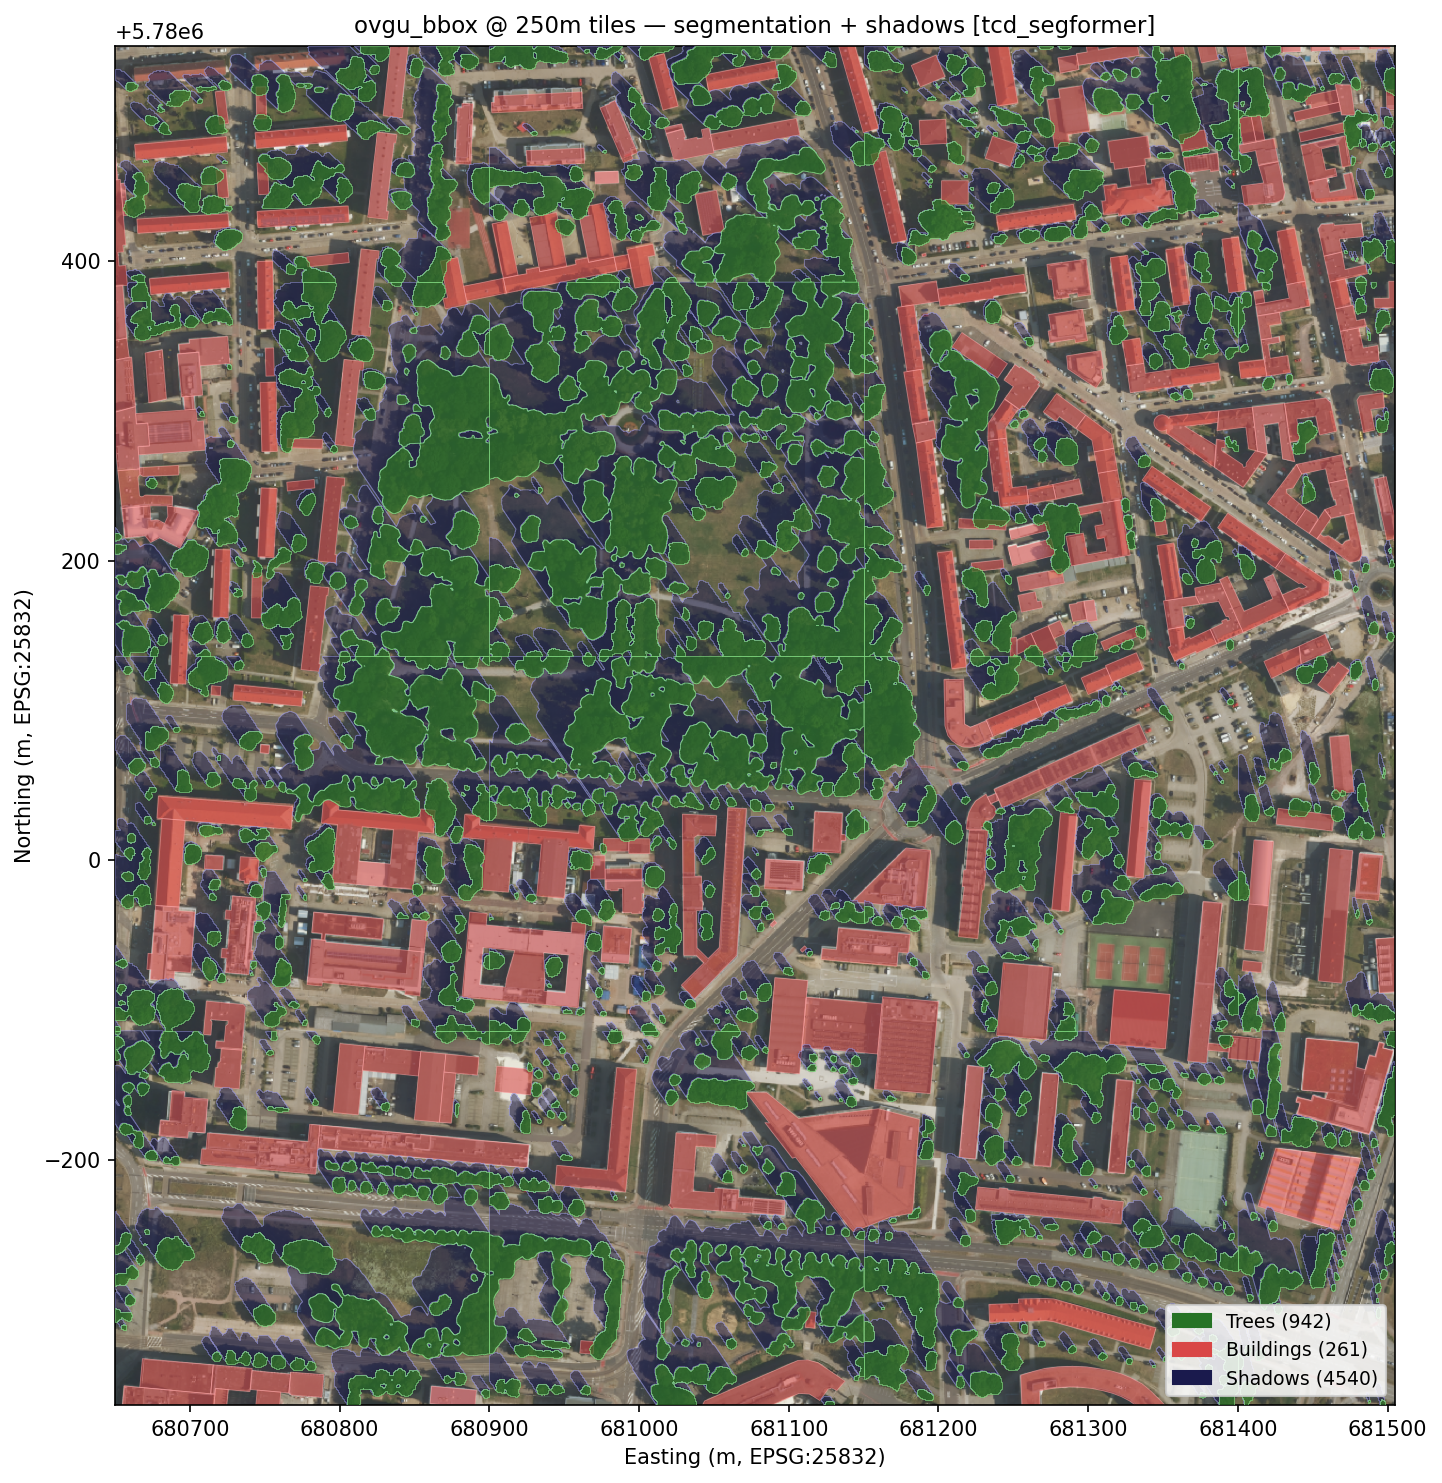
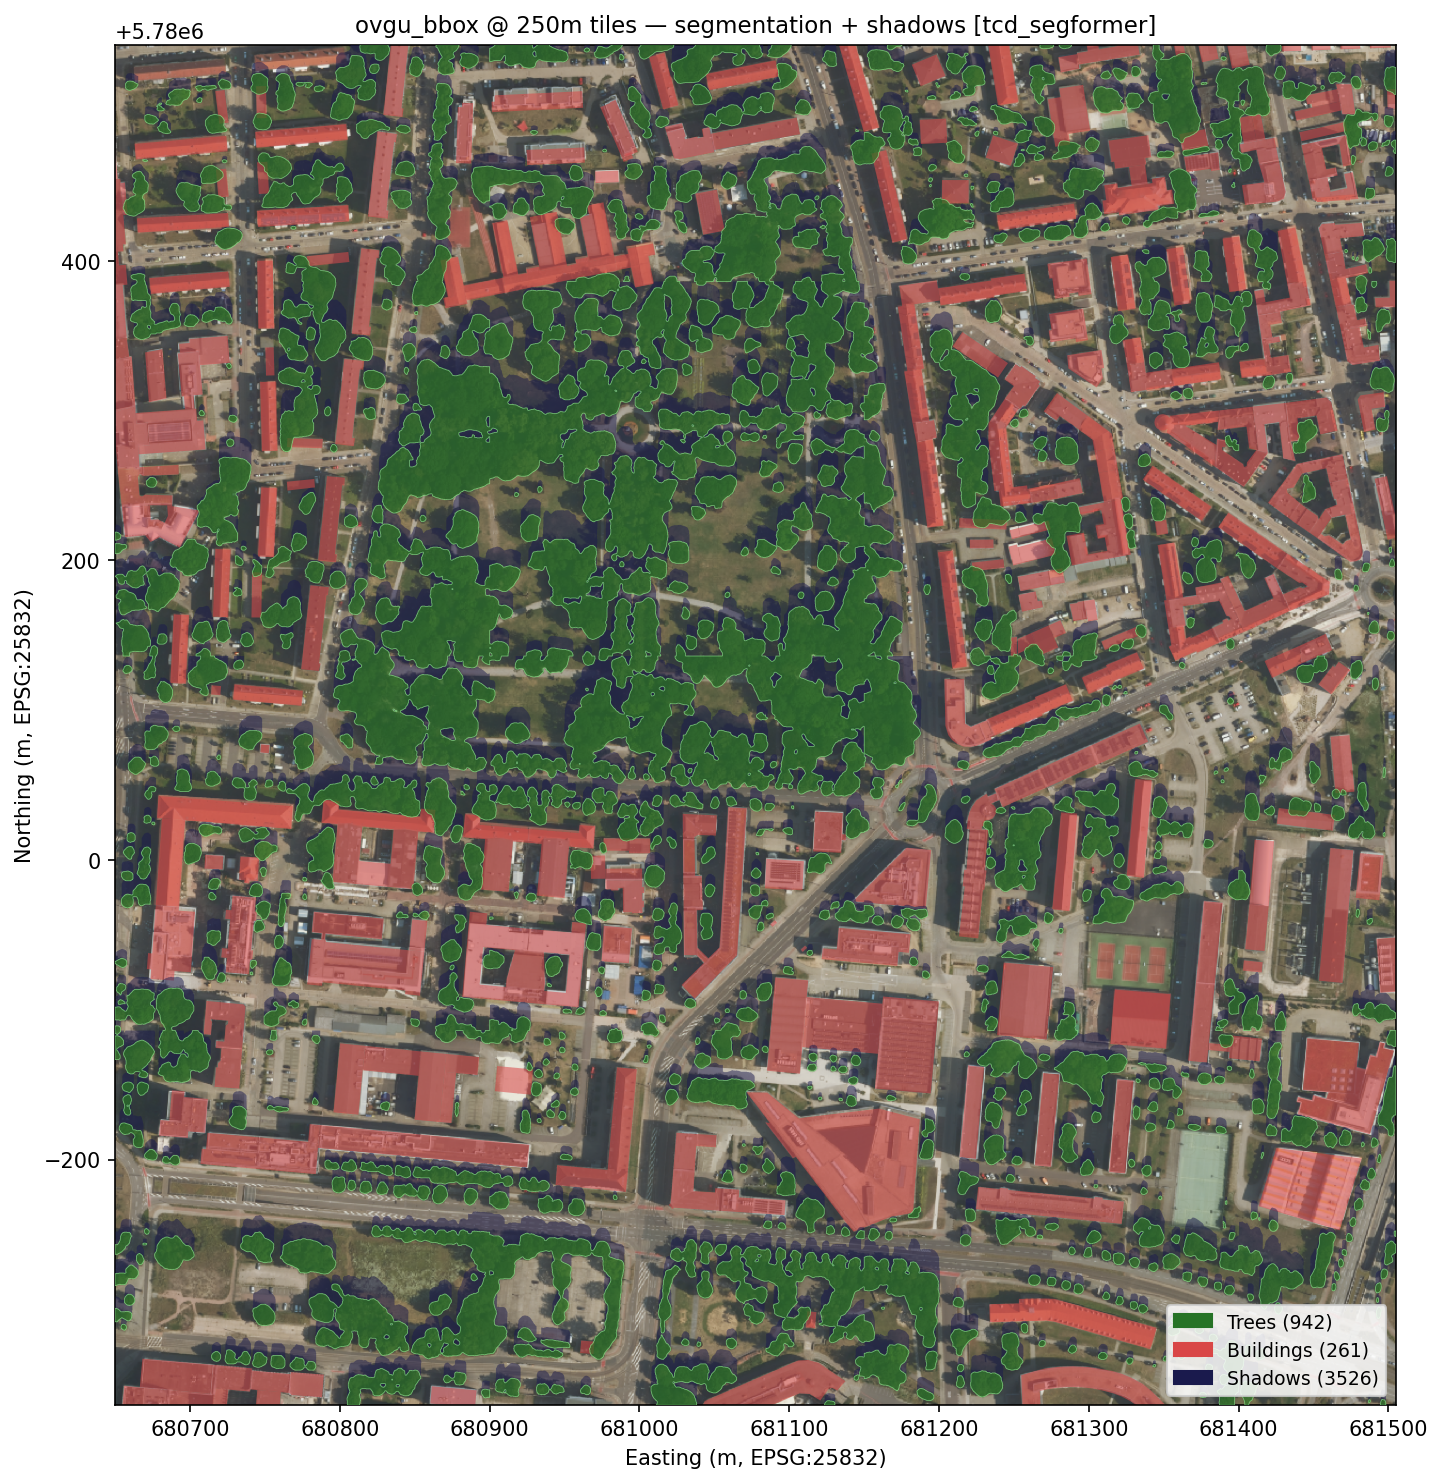
buffer to fix watershed splits

diff --git a/pipeline.py b/pipeline.py
@@ -79,6 +79,25 @@ def _merge_layer(area_name: str, vegetation_model: str, layer: str, out_dir):
     return out_path
 
 
+def _dissolve_for_render(gdf: "gpd.GeoDataFrame", snap_m: float = 0.3) -> "gpd.GeoDataFrame":
+    """Merge touching polygons to remove watershed ridge and tile-boundary seams for rendering.
+
+    buffer(+snap) closes 1-pixel gaps → unary_union merges touching polygons →
+    buffer(-snap) restores the original boundary extent.
+    Returns a geometry-only GeoDataFrame; attributes are not preserved.
+    snap_m=0.3 is just above the 0.2 m/pixel DOP20 resolution.
+    """
+    import geopandas as gpd
+    from shapely.ops import unary_union
+    union = unary_union(gdf.geometry.buffer(snap_m))
+    dissolved = gpd.GeoDataFrame(
+        geometry=gpd.GeoSeries([union], crs=gdf.crs).explode(index_parts=False),
+        crs=gdf.crs,
+    ).reset_index(drop=True)
+    dissolved["geometry"] = dissolved.geometry.buffer(-snap_m)
+    return dissolved
+
+
 def _load_vegetation_model(name: str):
     """Load the requested model and return a callable mask_fn(img) -> bool array."""
     if name == "vari":
@@ -663,13 +682,17 @@ def cmd_render(
             trees_gdf = gpd.read_file(trees_path)
             shadow_gdf = gpd.read_file(shadow_path) if shadow_path.exists() and shadow_path.stat().st_size > 0 else None
 
+            # Dissolve for rendering only — on-disk FGBs with attributes are unchanged
+            trees_render  = _dissolve_for_render(trees_gdf) if len(trees_gdf) > 0 else trees_gdf
+            shadow_render = _dissolve_for_render(shadow_gdf) if shadow_gdf is not None and len(shadow_gdf) > 0 else shadow_gdf
+
             # --- Figure 1: post-segmentation ---
             fig, ax = plt.subplots(figsize=(10, 10))
             ax.imshow(img, extent=extent, origin="upper", aspect="equal")
             if buildings_gdf is not None and len(buildings_gdf) > 0:
-                buildings_gdf.plot(ax=ax, facecolor="#d94747", edgecolor="#ffaaaa", linewidth=0.4, alpha=0.55, zorder=2)
-            if len(trees_gdf) > 0:
-                trees_gdf.plot(ax=ax, facecolor="#267326", edgecolor="#90ee90", linewidth=0.4, alpha=0.65, zorder=4)
+                buildings_gdf.plot(ax=ax, facecolor="#d94747", edgecolor="none", alpha=0.55, zorder=2)
+            if len(trees_render) > 0:
+                trees_render.plot(ax=ax, facecolor="#267326", edgecolor="#90ee90", linewidth=0.4, alpha=0.65, zorder=4)
             ax.set_xlim(west_m, east_m)
             ax.set_ylim(south_m, north_m)
             ax.set_xlabel("Easting (m, EPSG:25832)")
@@ -686,13 +709,13 @@ def cmd_render(
             print(f"  {area_name} @ {size}m [seg]:    → {seg_render_path.name}  ({len(trees_gdf)} trees)")
 
             # --- Figure 2: post-shadow ---
-            if shadow_gdf is not None and len(shadow_gdf) > 0:
+            if shadow_render is not None and len(shadow_render) > 0:
                 fig, ax = plt.subplots(figsize=(10, 10))
                 ax.imshow(img, extent=extent, origin="upper", aspect="equal")
                 if buildings_gdf is not None and len(buildings_gdf) > 0:
-                    buildings_gdf.plot(ax=ax, facecolor="#d94747", edgecolor="#ffaaaa", linewidth=0.4, alpha=0.55, zorder=2)
-                shadow_gdf.plot(ax=ax, facecolor="#1a1a4d", edgecolor="#aaaaff", linewidth=0.4, alpha=0.50, zorder=3)
-                trees_gdf.plot(ax=ax, facecolor="#267326", edgecolor="#90ee90", linewidth=0.4, alpha=0.65, zorder=4)
+                    buildings_gdf.plot(ax=ax, facecolor="#d94747", edgecolor="none", alpha=0.55, zorder=2)
+                shadow_render.plot(ax=ax, facecolor="#1a1a4d", edgecolor="none", alpha=0.50, zorder=3)
+                trees_render.plot(ax=ax, facecolor="#267326", edgecolor="#90ee90", linewidth=0.4, alpha=0.65, zorder=4)
                 ax.set_xlim(west_m, east_m)
                 ax.set_ylim(south_m, north_m)
                 ax.set_xlabel("Easting (m, EPSG:25832)")